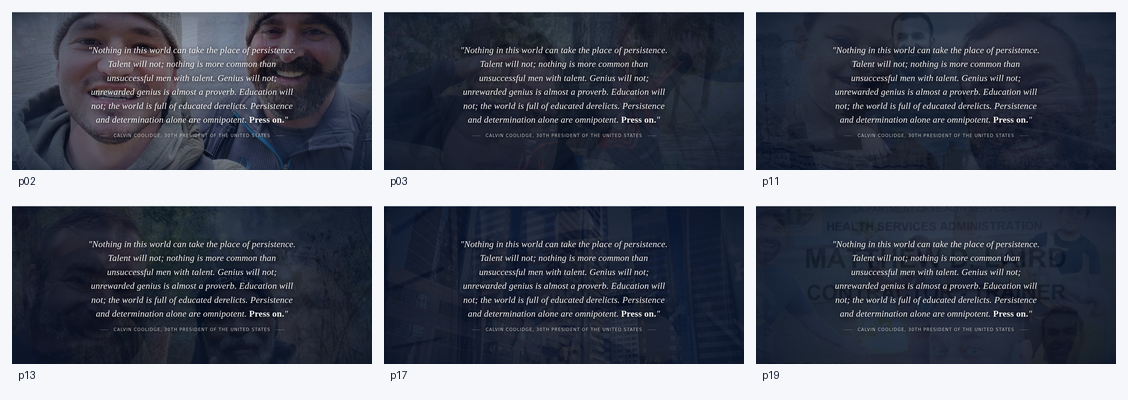
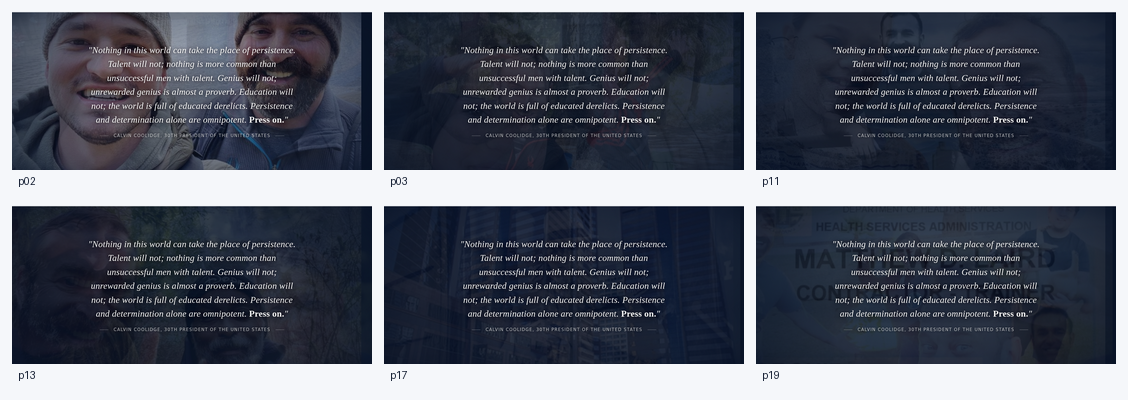
Finalize slideshow framing and insurance jump-link fixes

diff --git a/src/css/base.css b/src/css/base.css
@@ -4,6 +4,7 @@
 *, *::before, *::after { box-sizing: border-box; margin: 0; padding: 0; }
 
 html {
+  --site-header-height: 64px;
   font-size: 16px;
   scroll-behavior: smooth;
   -webkit-text-size-adjust: 100%;
@@ -73,7 +74,7 @@ main { flex: 1; }
   align-items: center;
   justify-content: space-between;
   gap: var(--space-4);
-  min-height: 64px;
+  min-height: var(--site-header-height);
 }
 .site-header__brand {
   display: flex;
@@ -260,7 +261,7 @@ main { flex: 1; }
   background: var(--color-blue-800);
   color: var(--color-white);
 }
-#insurance-payment { scroll-margin-top: calc(64px + var(--space-4)); }
+#insurance-payment { scroll-margin-top: calc(var(--site-header-height) + var(--space-4)); }
 .section__eyebrow {
   font-family: var(--font-ui);
   font-size: var(--text-sm);

diff --git a/src/css/ken-burns.css b/src/css/ken-burns.css
@@ -39,9 +39,9 @@
 /* Photo fills slide */
 .kb-slide__img {
   position: absolute;
-  inset: 0;
-  width: 100%;
-  height: 100%;
+  inset: -3%;
+  width: 106%;
+  height: 106%;
   object-fit: cover;
   object-position: center;
   transform-origin: center center;
